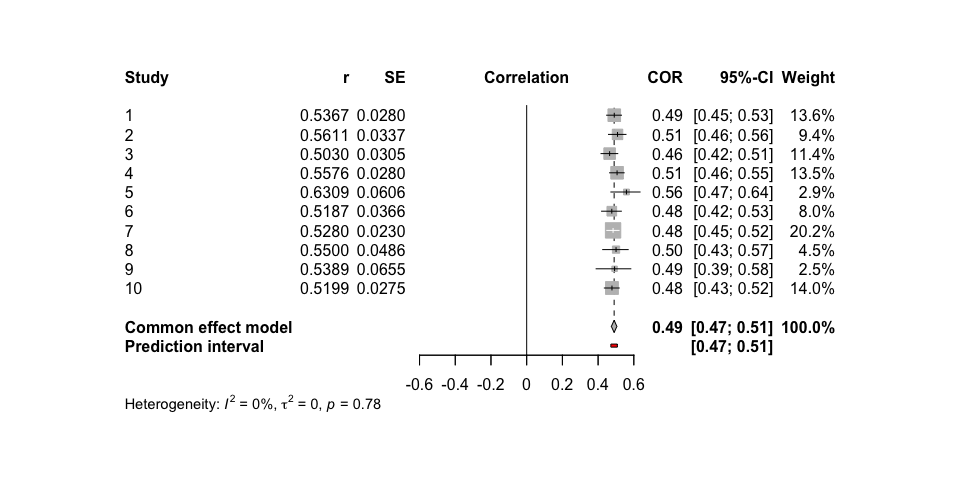
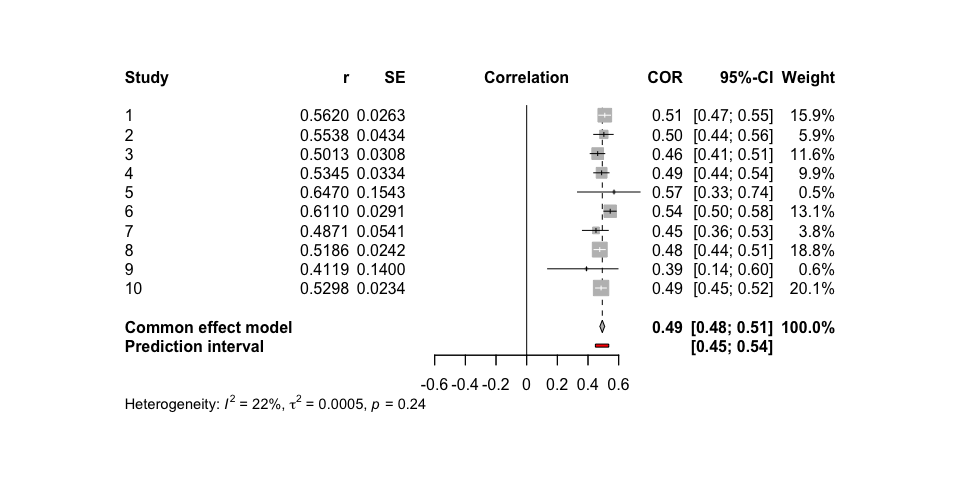
include subgroup analysis in readme

diff --git a/README.md b/README.md
@@ -48,14 +48,14 @@ sim <- sim_meta(min_obs = 20,
 
 head(sim)
 #> # A tibble: 6 × 10
-#>   study hedges_g     se  mean_x mean_y  sd_x  sd_y   n_x   n_y      vi
-#>   <int>    <dbl>  <dbl>   <dbl>  <dbl> <dbl> <dbl> <int> <int>   <dbl>
-#> 1     1    0.273 0.0479  0.0124  0.281 0.955 1.01    878   878 0.00230
-#> 2     2    0.256 0.0705  0.0203  0.282 1.02  1.02    406   406 0.00497
-#> 3     3    0.330 0.0359 -0.0376  0.287 0.994 0.972  1572  1572 0.00129
-#> 4     4    0.280 0.0392  0.0208  0.312 1.05  1.03   1314  1314 0.00154
-#> 5     5    0.262 0.0521  0.0442  0.303 1.02  0.953   744   744 0.00271
-#> 6     6    0.320 0.0325  0.0154  0.332 0.986 0.994  1913  1913 0.00106
+#>   study hedges_g     se    mean_x mean_y  sd_x  sd_y   n_x   n_y      vi
+#>   <int>    <dbl>  <dbl>     <dbl>  <dbl> <dbl> <dbl> <int> <int>   <dbl>
+#> 1     1    0.341 0.0358 -0.000963  0.337 0.996 0.984  1587  1587 0.00128
+#> 2     2    0.280 0.0321 -0.00530   0.272 0.999 0.985  1957  1957 0.00103
+#> 3     3    0.228 0.0890  0.116     0.344 0.976 1.02    254   254 0.00793
+#> 4     4    0.377 0.0885 -0.0235    0.347 0.977 0.984   260   260 0.00783
+#> 5     5    0.317 0.0448 -0.0262    0.293 1.04  0.970  1007  1007 0.00201
+#> 6     6    0.300 0.0344  0.00820   0.307 1.00  0.985  1706  1706 0.00119
 ```
 
 ### Effect size and standard error
@@ -95,29 +95,29 @@ summary(meta_fixed)
 #> Review:     Meta-Analysis Fixed effect
 #> 
 #>       SMD           95%-CI %W(common)
-#> 1  0.2727 [0.1788; 0.3667]        7.9
-#> 2  0.2561 [0.1180; 0.3942]        3.7
-#> 3  0.3303 [0.2599; 0.4007]       14.2
-#> 4  0.2796 [0.2028; 0.3564]       11.9
-#> 5  0.2621 [0.1600; 0.3641]        6.7
-#> 6  0.3197 [0.2560; 0.3835]       17.2
-#> 7  0.3515 [0.1483; 0.5546]        1.7
-#> 8  0.2694 [0.2054; 0.3334]       17.1
-#> 9  0.3266 [0.2301; 0.4230]        7.5
-#> 10 0.3134 [0.2369; 0.3898]       12.0
+#> 1  0.3410 [0.2709; 0.4111]       13.9
+#> 2  0.2798 [0.2168; 0.3427]       17.2
+#> 3  0.2282 [0.0537; 0.4027]        2.2
+#> 4  0.3771 [0.2037; 0.5505]        2.3
+#> 5  0.3172 [0.2293; 0.4051]        8.8
+#> 6  0.3004 [0.2329; 0.3679]       15.0
+#> 7  0.2835 [0.2173; 0.3496]       15.6
+#> 8  0.1442 [0.0201; 0.2683]        4.4
+#> 9  0.3230 [0.1960; 0.4499]        4.2
+#> 10 0.2808 [0.2159; 0.3456]       16.2
 #> 
 #> Number of studies: k = 10
 #> 
 #>                        SMD           95%-CI     z  p-value
-#> Common effect model 0.2982 [0.2717; 0.3247] 22.07 < 0.0001
+#> Common effect model 0.2923 [0.2662; 0.3184] 21.92 < 0.0001
 #> 
 #> Quantifying heterogeneity:
-#>  tau^2 = 0 [0.0000; 0.0009]; tau = 0 [0.0000; 0.0302]
-#>  I^2 = 0.0% [0.0%; 62.4%]; H = 1.00 [1.00; 1.63]
+#>  tau^2 < 0.0001 [0.0000; 0.0092]; tau = 0.0005 [0.0000; 0.0960]
+#>  I^2 = 7.1% [0.0%; 65.0%]; H = 1.04 [1.00; 1.69]
 #> 
 #> Test of heterogeneity:
 #>     Q d.f. p-value
-#>  4.11    9  0.9042
+#>  9.69    9  0.3764
 #> 
 #> Details on meta-analytical method:
 #> - Inverse variance method
@@ -151,14 +151,14 @@ sim <- sim_meta(min_obs = 20,
 
 head(sim)
 #> # A tibble: 6 × 10
-#>   study hedges_g     se    mean_x mean_y  sd_x  sd_y   n_x   n_y      vi
-#>   <int>    <dbl>  <dbl>     <dbl>  <dbl> <dbl> <dbl> <int> <int>   <dbl>
-#> 1     1    0.696 0.0592 -0.0298    0.665 0.984 1.01    606   606 0.00350
-#> 2     2    0.790 0.0384 -0.0958    0.712 1.01  1.03   1464  1464 0.00147
-#> 3     3    0.683 0.0555 -0.000944  0.699 1.04  1.01    686   686 0.00309
-#> 4     4    0.751 0.0397 -0.0102    0.740 1.00  0.992  1356  1356 0.00158
-#> 5     5    0.589 0.105   0.0541    0.650 0.983 1.04    189   189 0.0110 
-#> 6     6    0.683 0.0534 -0.0477    0.642 1.01  1.01    742   742 0.00285
+#>   study hedges_g     se  mean_x mean_y  sd_x  sd_y   n_x   n_y      vi
+#>   <int>    <dbl>  <dbl>   <dbl>  <dbl> <dbl> <dbl> <int> <int>   <dbl>
+#> 1     1    0.700 0.0643 -0.0880  0.614 0.996 1.01    514   514 0.00413
+#> 2     2    0.964 0.0511 -0.125   0.819 0.950 1.01    855   855 0.00261
+#> 3     3    0.617 0.0671  0.0493  0.649 0.974 0.968   466   466 0.00450
+#> 4     4    0.714 0.114   0.0197  0.728 0.933 1.04    165   165 0.0129 
+#> 5     5    0.622 0.0376  0.0228  0.642 1.02  0.974  1485  1485 0.00141
+#> 6     6    0.627 0.127  -0.0163  0.602 0.914 1.05    130   130 0.0161
 ```
 
 ### Run Meta-Analysis on simulated data
@@ -186,29 +186,29 @@ summary(meta_random)
 #> Review:     Meta-Analysis Random Effects
 #> 
 #>       SMD           95%-CI %W(random)
-#> 1  0.6961 [0.5802; 0.8121]        9.5
-#> 2  0.7904 [0.7152; 0.8656]       14.0
-#> 3  0.6832 [0.5743; 0.7920]       10.2
-#> 4  0.7513 [0.6735; 0.8292]       13.7
-#> 5  0.5886 [0.3826; 0.7945]        4.4
-#> 6  0.6834 [0.5787; 0.7881]       10.6
-#> 7  0.5863 [0.5081; 0.6645]       13.7
-#> 8  0.4314 [0.0663; 0.7964]        1.6
-#> 9  0.6665 [0.5969; 0.7361]       14.8
-#> 10 0.7364 [0.5946; 0.8782]        7.5
+#> 1  0.7002 [0.5743; 0.8262]       11.0
+#> 2  0.9644 [0.8642; 1.0645]       12.1
+#> 3  0.6174 [0.4859; 0.7488]       10.7
+#> 4  0.7139 [0.4913; 0.9364]        7.2
+#> 5  0.6217 [0.5481; 0.6954]       13.1
+#> 6  0.6270 [0.3780; 0.8760]        6.4
+#> 7  0.7766 [0.7014; 0.8518]       13.0
+#> 8  0.6516 [0.5092; 0.7940]       10.3
+#> 9  0.4453 [0.0999; 0.7907]        4.2
+#> 10 0.8394 [0.7366; 0.9421]       12.0
 #> 
 #> Number of studies: k = 10
 #> 
 #>                              SMD           95%-CI     t  p-value
-#> Random effects model (HK) 0.6889 [0.6347; 0.7432] 28.72 < 0.0001
+#> Random effects model (HK) 0.7201 [0.6248; 0.8154] 17.09 < 0.0001
 #> 
 #> Quantifying heterogeneity:
-#>  tau^2 = 0.0028 [0.0001; 0.0206]; tau = 0.0532 [0.0083; 0.1435]
-#>  I^2 = 54.3% [6.8%; 77.6%]; H = 1.48 [1.04; 2.11]
+#>  tau^2 = 0.0126 [0.0035; 0.0560]; tau = 0.1123 [0.0592; 0.2366]
+#>  I^2 = 78.8% [61.5%; 88.3%]; H = 2.17 [1.61; 2.93]
 #> 
 #> Test of heterogeneity:
-#>      Q d.f. p-value
-#>  19.69    9  0.0199
+#>      Q d.f.  p-value
+#>  42.52    9 < 0.0001
 #> 
 #> Details on meta-analytical method:
 #> - Inverse variance method
@@ -247,12 +247,12 @@ head(sim)
 #> # A tibble: 6 × 5
 #>   study     z     r     n     se
 #>   <int> <dbl> <dbl> <int>  <dbl>
-#> 1     1 0.537 0.490  1277 0.0280
-#> 2     2 0.561 0.509   882 0.0337
-#> 3     3 0.503 0.464  1077 0.0305
-#> 4     4 0.558 0.506  1275 0.0280
-#> 5     5 0.631 0.559   275 0.0606
-#> 6     6 0.519 0.477   751 0.0366
+#> 1     1 0.562 0.509  1447 0.0263
+#> 2     2 0.554 0.503   535 0.0434
+#> 3     3 0.501 0.463  1056 0.0308
+#> 4     4 0.534 0.489   897 0.0334
+#> 5     5 0.647 0.570    45 0.154 
+#> 6     6 0.611 0.545  1186 0.0291
 ```
 
 ### Run Meta-Analysis on simulated data
@@ -277,29 +277,29 @@ summary(meta_fixed)
 #> Review:     Meta-Analysis Fixed effect
 #> 
 #>       COR           95%-CI %W(common)
-#> 1  0.4905 [0.4476; 0.5310]       13.6
-#> 2  0.5088 [0.4582; 0.5561]        9.4
-#> 3  0.4645 [0.4163; 0.5101]       11.4
-#> 4  0.5062 [0.4642; 0.5459]       13.5
-#> 5  0.5587 [0.4716; 0.6350]        2.9
-#> 6  0.4767 [0.4194; 0.5301]        8.0
-#> 7  0.4838 [0.4486; 0.5175]       20.2
-#> 8  0.5005 [0.4257; 0.5685]        4.5
-#> 9  0.4922 [0.3889; 0.5832]        2.5
-#> 10 0.4776 [0.4349; 0.5182]       14.0
+#> 1  0.5094 [0.4703; 0.5466]       15.9
+#> 2  0.5034 [0.4372; 0.5641]        5.9
+#> 3  0.4631 [0.4144; 0.5092]       11.6
+#> 4  0.4888 [0.4373; 0.5371]        9.9
+#> 5  0.5697 [0.3316; 0.7395]        0.5
+#> 6  0.5448 [0.5035; 0.5836]       13.1
+#> 7  0.4519 [0.3637; 0.5321]        3.8
+#> 8  0.4766 [0.4391; 0.5125]       18.8
+#> 9  0.3901 [0.1366; 0.5956]        0.6
+#> 10 0.4852 [0.4493; 0.5196]       20.1
 #> 
 #> Number of studies: k = 10
 #> 
 #>                        COR           95%-CI     z p-value
-#> Common effect model 0.4898 [0.4743; 0.5050] 51.92       0
+#> Common effect model 0.4932 [0.4774; 0.5086] 51.43       0
 #> 
 #> Quantifying heterogeneity:
-#>  tau^2 = 0 [0.0000; 0.0018]; tau = 0 [0.0000; 0.0420]
-#>  I^2 = 0.0% [0.0%; 62.4%]; H = 1.00 [1.00; 1.63]
+#>  tau^2 = 0.0005 [0.0000; 0.0052]; tau = 0.0213 [0.0000; 0.0718]
+#>  I^2 = 22.4% [0.0%; 62.1%]; H = 1.14 [1.00; 1.63]
 #> 
 #> Test of heterogeneity:
-#>     Q d.f. p-value
-#>  5.54    9  0.7847
+#>      Q d.f. p-value
+#>  11.60    9  0.2367
 #> 
 #> Details on meta-analytical method:
 #> - Inverse variance method
@@ -337,19 +337,17 @@ head(sim)
 #> # A tibble: 6 × 5
 #>   study     z     r     n     se
 #>   <int> <dbl> <dbl> <int>  <dbl>
-#> 1     1 0.403 0.383   560 0.0424
-#> 2     2 0.519 0.477   764 0.0362
-#> 3     3 0.449 0.421  1941 0.0227
-#> 4     4 0.510 0.470  1393 0.0268
-#> 5     5 0.363 0.348  1481 0.0260
-#> 6     6 0.666 0.582   593 0.0412
+#> 1     1 0.695 0.601  1432 0.0265
+#> 2     2 0.425 0.401   407 0.0498
+#> 3     3 0.359 0.344   232 0.0661
+#> 4     4 0.603 0.539   728 0.0371
+#> 5     5 0.456 0.427  1260 0.0282
+#> 6     6 0.651 0.572   404 0.0499
 ```
 
 ### Run Meta-Analysis on simulated data
 
 ``` r
-require(meta)
-require(metafor)
 
 # choose only studies 1-10 for better readability
 analysis_data <- sim %>% 
@@ -369,30 +367,30 @@ meta_random <- metagen(TE = z,
 summary(meta_random)
 #> Review:     Meta-Analysis Random Effects
 #> 
-#>       COR           95%-CI %W(random)
-#> 1  0.3827 [0.3097; 0.4513]        9.5
-#> 2  0.4766 [0.4199; 0.5297]        9.8
-#> 3  0.4208 [0.3835; 0.4568]       10.4
-#> 4  0.4703 [0.4283; 0.5102]       10.2
-#> 5  0.3477 [0.3021; 0.3917]       10.3
-#> 6  0.5825 [0.5266; 0.6333]        9.6
-#> 7  0.4947 [0.4506; 0.5365]       10.2
-#> 8  0.4453 [0.3834; 0.5033]        9.7
-#> 9  0.2324 [0.1774; 0.2860]       10.1
-#> 10 0.5234 [0.4816; 0.5628]       10.2
+#>       COR            95%-CI %W(random)
+#> 1  0.6013 [ 0.5672; 0.6334]       11.7
+#> 2  0.4010 [ 0.3162; 0.4796]       10.4
+#> 3  0.3440 [ 0.2252; 0.4528]        9.3
+#> 4  0.5390 [ 0.4853; 0.5886]       11.2
+#> 5  0.4267 [ 0.3805; 0.4709]       11.6
+#> 6  0.5722 [ 0.5027; 0.6343]       10.4
+#> 7  0.3498 [ 0.2176; 0.4694]        8.8
+#> 8  0.5575 [ 0.5231; 0.5901]       11.8
+#> 9  0.3648 [-0.0354; 0.6642]        2.8
+#> 10 0.5491 [ 0.5143; 0.5821]       11.8
 #> 
 #> Number of studies: k = 10
 #> 
 #>                              COR           95%-CI     t  p-value
-#> Random effects model (HK) 0.4414 [0.3696; 0.5080] 12.46 < 0.0001
+#> Random effects model (HK) 0.4913 [0.4185; 0.5578] 13.24 < 0.0001
 #> 
 #> Quantifying heterogeneity:
-#>  tau^2 = 0.0134 [0.0058; 0.0473]; tau = 0.1157 [0.0758; 0.2175]
-#>  I^2 = 93.2% [89.4%; 95.6%]; H = 3.82 [3.08; 4.75]
+#>  tau^2 = 0.0136 [0.0049; 0.0528]; tau = 0.1165 [0.0701; 0.2298]
+#>  I^2 = 88.3% [80.6%; 93.0%]; H = 2.93 [2.27; 3.77]
 #> 
 #> Test of heterogeneity:
-#>       Q d.f.  p-value
-#>  131.47    9 < 0.0001
+#>      Q d.f.  p-value
+#>  77.06    9 < 0.0001
 #> 
 #> Details on meta-analytical method:
 #> - Inverse variance method
@@ -409,3 +407,105 @@ metafor::forest(meta_random,
 ```
 
 <img src="man/figures/README-unnamed-chunk-13-1.png" width="100%" />
+
+# Subgroup-Analysis Standardized Mean Difference
+
+### Simulate data
+
+``` r
+sim <- sim_meta(min_obs = 20,
+         max_obs = 2000,
+         n_studies = 1500,
+         smd_true = 0.6,
+         r_true = 0,
+         es = 'SMD',
+         random = TRUE,
+         tau = 0.1,
+         metaregression = TRUE,
+         mod_varname = c('subgroup'),
+         mod_labels = c('group1', 'group2'),
+         mod_effect = 0.2)
+
+head(sim %>% 
+       select(study, hedges_g, subgroup, everything()))
+#> # A tibble: 6 × 11
+#>   study hedges_g subgroup     se  mean_x mean_y  sd_x  sd_y   n_x   n_y      vi
+#>   <int>    <dbl> <chr>     <dbl>   <dbl>  <dbl> <dbl> <dbl> <int> <int>   <dbl>
+#> 1     1    0.892 group1   0.0459 -0.115   0.767 0.977 1.00   1043  1043 0.00211
+#> 2     2    0.873 group2   0.0420  0.0275  0.894 1.02  0.964  1244  1244 0.00176
+#> 3     3    0.798 group2   0.0334 -0.0899  0.728 1.02  1.03   1939  1939 0.00111
+#> 4     4    1.06  group2   0.0499 -0.124   0.905 0.989 0.959   914   914 0.00249
+#> 5     5    0.356 group1   0.0331  0.220   0.576 1.03  0.975  1857  1857 0.00109
+#> 6     6    0.549 group1   0.0390  0.193   0.747 0.975 1.04   1363  1363 0.00152
+```
+
+### Run Meta-Analysis on simulated data
+
+``` r
+# choose only studies 1-10 for better readability
+analysis_data <- sim %>% 
+  filter(study <= 10)
+
+meta_random <- metagen(TE = hedges_g,
+                 seTE = se,
+                 studlab = study,
+                 data = analysis_data,
+                 sm = "SMD",
+                 fixed = FALSE,
+                 random = TRUE,
+                 method.tau = 'REML',
+                 method.random.ci = "HK",
+                 subgroup = subgroup,
+                 title = "Meta-Analysis Random Effects")
+
+summary(meta_random)
+#> Review:     Meta-Analysis Random Effects
+#> 
+#>       SMD           95%-CI %W(random) subgroup
+#> 1  0.8918 [0.8018; 0.9818]       10.4   group1
+#> 2  0.8733 [0.7910; 0.9555]       10.4   group2
+#> 3  0.7983 [0.7329; 0.8638]       10.6   group2
+#> 4  1.0558 [0.9579; 1.1536]       10.3   group2
+#> 5  0.3564 [0.2916; 0.4212]       10.6   group1
+#> 6  0.5486 [0.4721; 0.6251]       10.5   group1
+#> 7  0.4829 [0.4189; 0.5468]       10.6   group1
+#> 8  0.7697 [0.4853; 1.0542]        7.4   group2
+#> 9  0.7723 [0.5825; 0.9622]        9.0   group1
+#> 10 0.6508 [0.5538; 0.7478]       10.3   group2
+#> 
+#> Number of studies: k = 10
+#> 
+#>                              SMD           95%-CI     t  p-value
+#> Random effects model (HK) 0.7162 [0.5622; 0.8702] 10.52 < 0.0001
+#> 
+#> Quantifying heterogeneity:
+#>  tau^2 = 0.0446 [0.0192; 0.1462]; tau = 0.2113 [0.1387; 0.3823]
+#>  I^2 = 96.5% [95.0%; 97.5%]; H = 5.32 [4.46; 6.36]
+#> 
+#> Test of heterogeneity:
+#>       Q d.f.  p-value
+#>  255.14    9 < 0.0001
+#> 
+#> Results for subgroups (random effects model (HK)):
+#>                     k    SMD           95%-CI  tau^2    tau     Q   I^2
+#> subgroup = group1   5 0.6042 [0.3328; 0.8756] 0.0453 0.2129 98.20 95.9%
+#> subgroup = group2   5 0.8350 [0.6441; 1.0260] 0.0212 0.1455 35.65 88.8%
+#> 
+#> Test for subgroup differences (random effects model (HK)):
+#>                   Q d.f. p-value
+#> Between groups 3.73    1  0.0534
+#> 
+#> Details on meta-analytical method:
+#> - Inverse variance method
+#> - Restricted maximum-likelihood estimator for tau^2
+#> - Q-Profile method for confidence interval of tau^2 and tau
+#> - Hartung-Knapp adjustment for random effects model (df = 9)
+
+
+metafor::forest(meta_random,
+             prediction = TRUE, 
+             print.tau2 = TRUE,
+             leftlabs = c("Study", "g", "SE"))
+```
+
+<img src="man/figures/README-unnamed-chunk-15-1.png" width="100%" />
